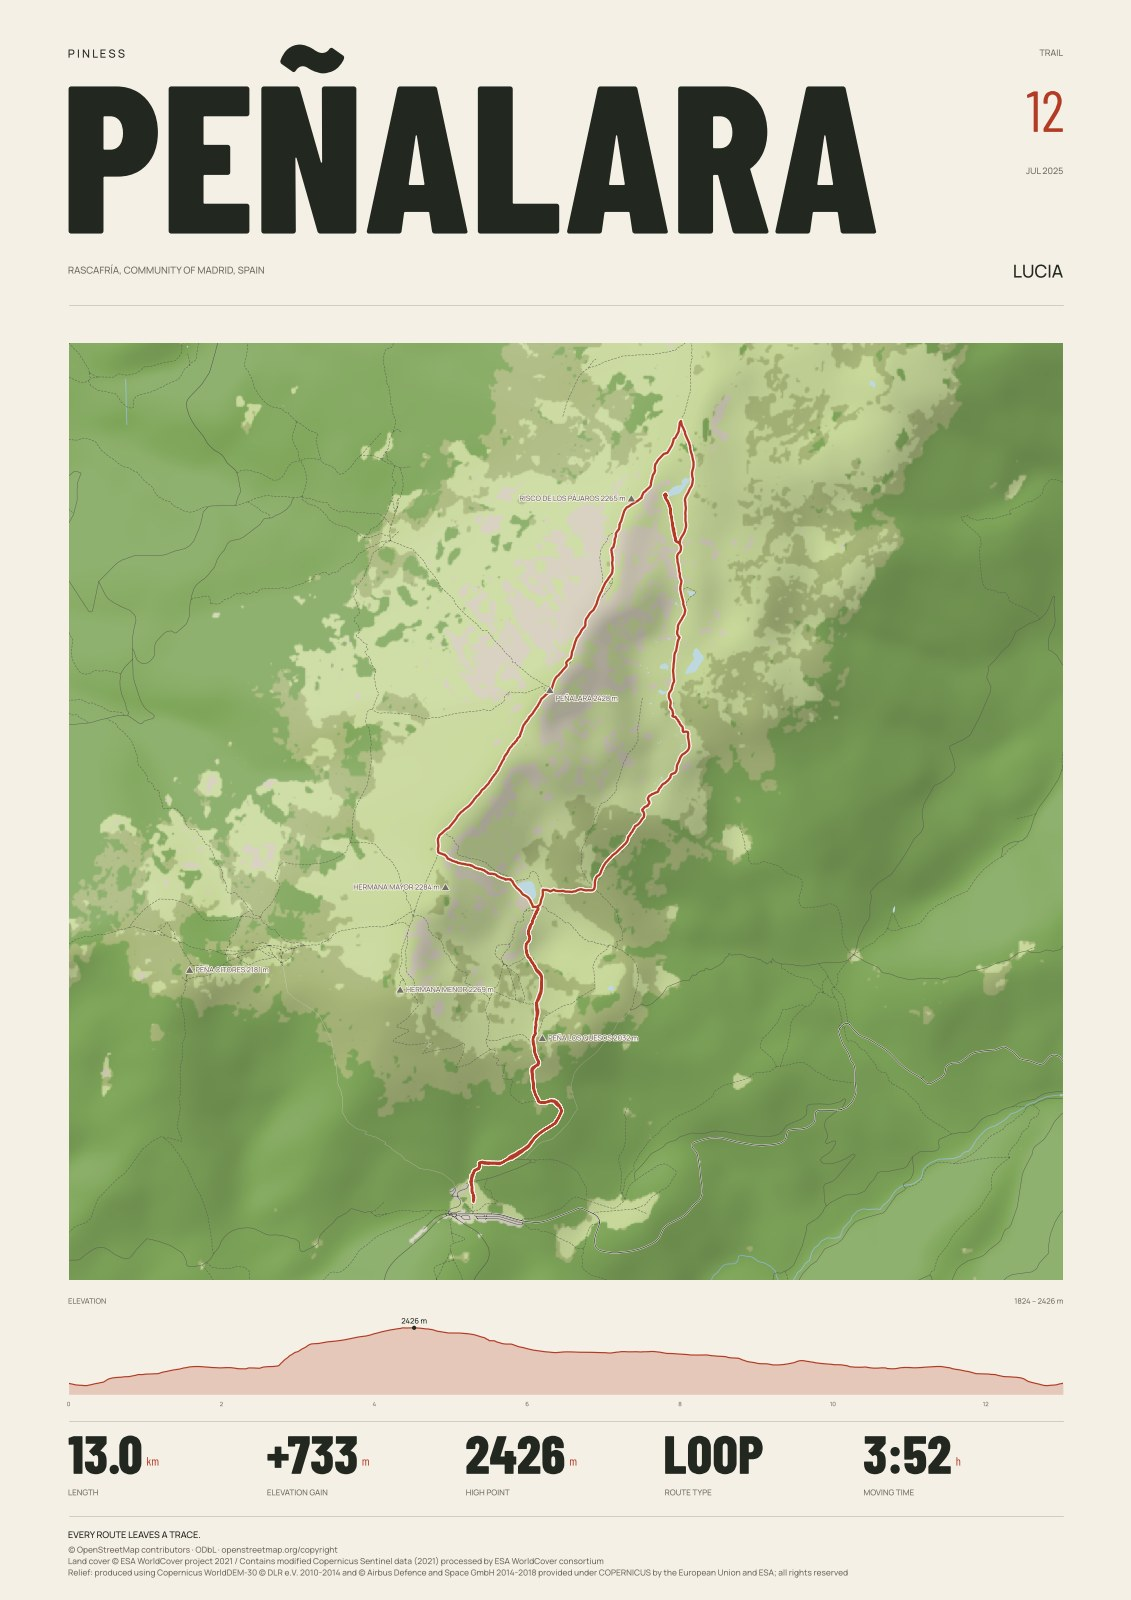
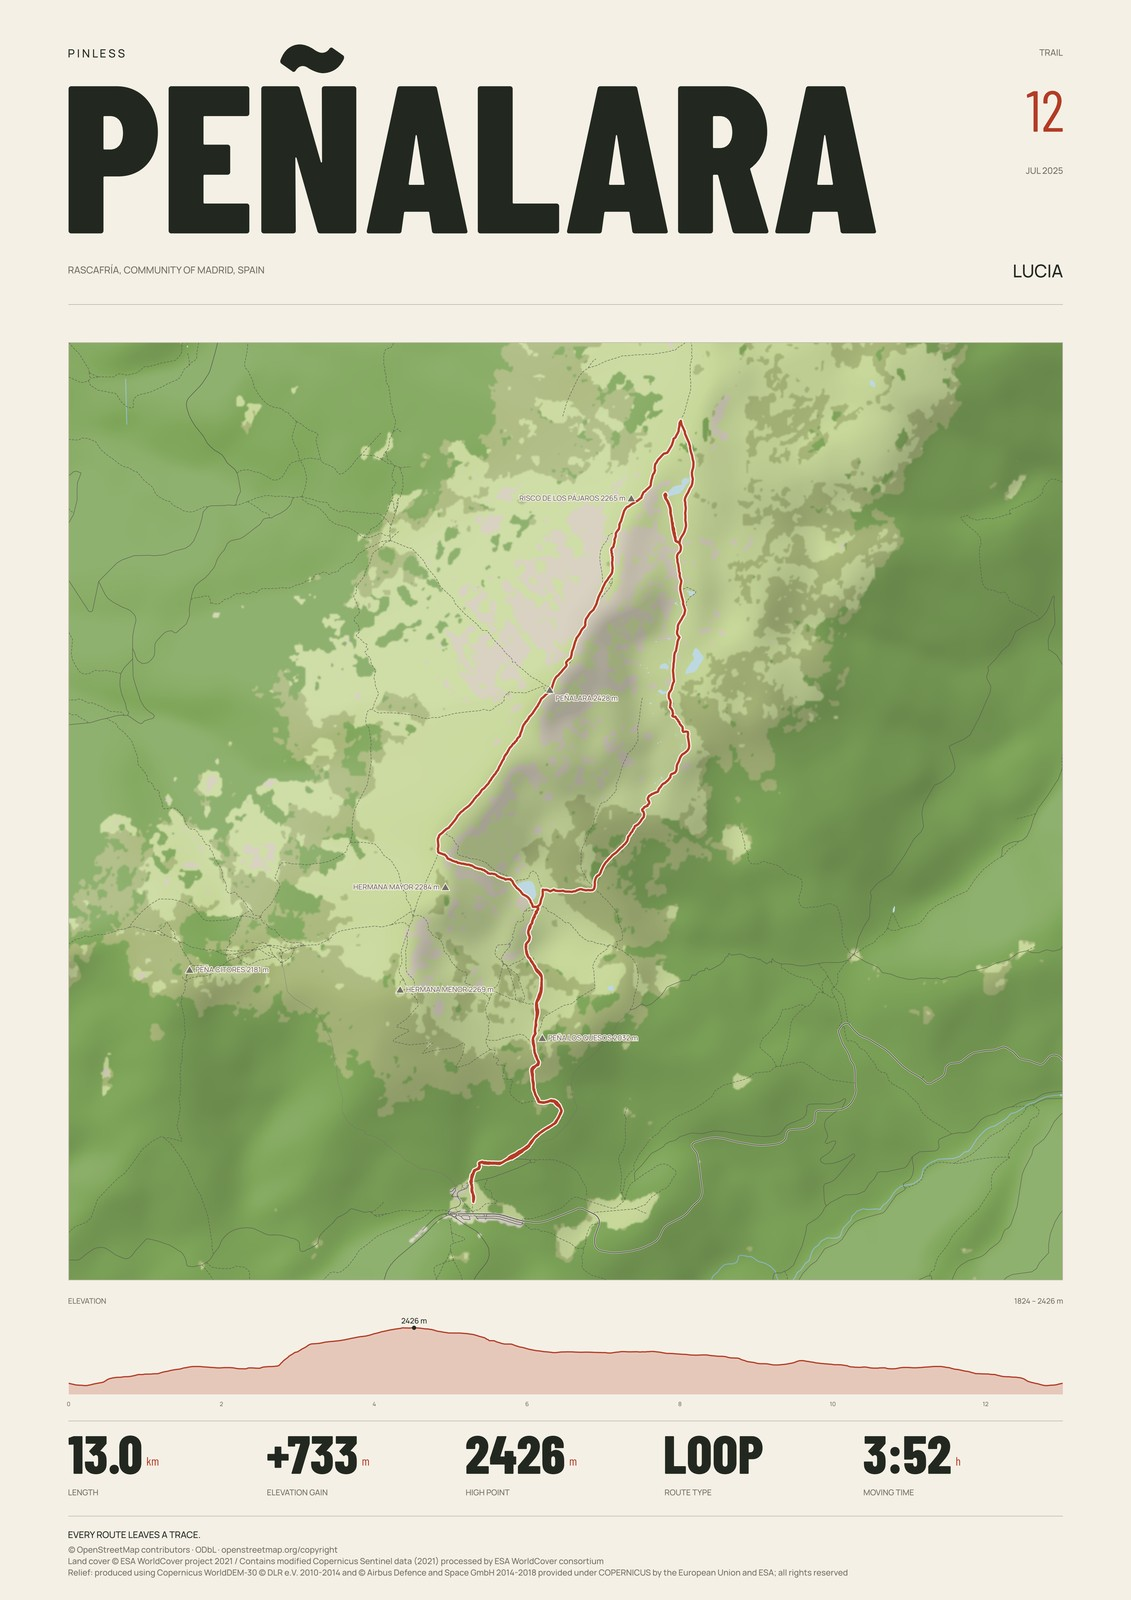
README: the trail prints redrawn with the generalised ground and the orange desert
docs/trail.jpg, docs/trail-desert.jpg and the wall mockup are drawn again from the demo hikes at
300 dpi: rounded class outlines instead of 10 m squares, the Tabernas badlands in the new desert
orange with the relief showing through, and the map's hairline frame. The ground paragraph says
what changed for the reader: a dry land in colours of one lightness, dark styles that keep green
forests and orange deserts with dark blue lakes, the smoothing and the frame, and the route ink
that switches along 15 % or more of the route.

diff --git a/README.md b/README.md
@@ -105,7 +105,7 @@ A run that starts or ends at one of your private places (a long run from home) i
 
 <p align="center">
   <img src="docs/trail.jpg" width="49%" alt="Trail print of a loop over Penalara in the Sierra de Guadarrama: green pine woods and meadows, the granite ridge in stone grey, terrain relief, paths, named summits, the elevation profile and the route numbers">
-  <img src="docs/trail-desert.jpg" width="49%" alt="Trail print of a walk in the Desierto de Tabernas: the badlands in desert orange, the steppe in straw and olive, terrain relief, paths, the elevation profile and the route numbers">
+  <img src="docs/trail-desert.jpg" width="49%" alt="Trail print of a walk in the Desierto de Tabernas: the badlands in desert orange, the steppe in straw, terrain relief, paths, the elevation profile and the route numbers">
 </p>
 <p align="center">
   <img src="docs/wall-trail.jpg" width="80%" alt="The Penalara trail print in an oak frame hung above a sideboard">
@@ -119,7 +119,7 @@ pinless export_12345678.zip --layout trail --activity 2025-07-12 --title "Peñal
 
 One hike, trail run or mountain loop on a topographic map: terrain relief (on by default for this print, `--relief off` turns it off), paths and tracks drawn stronger than on a city poster, roads over the relief in an ink at least as strong, woods and water, and up to six named summits with their heights. Under the map, the elevation profile with its highest point marked, and the route's length, elevation gain, high point, route type (loop, out and back or point to point) and time; when the clock shows pauses longer than two minutes, the moving time. The route is drawn in the style's accent colour, or coloured by `--color-by elevation` or `pace`.
 
-The map's ground takes the colours of the land (`--ground nature`, on by default for this print), from the ESA WorldCover map of 2021 at 10 m, under the relief: woods green, meadows a lighter green, scrub sage, fields wheat, marshes teal, rock and scree a light stone, snow and glaciers blue white, towns a warm grey, lakes and rivers blue. In a dry land the grass and scrub take the straw and olive of a steppe and the bare ground the orange of a desert. WorldCover alone cannot tell a desert from a high mountain (both are grass and bare ground), so where the map lies decides: south of about 37 to 42 degrees of latitude (north of it in the southern hemisphere) with a sixth or more of bare ground, or three quarters bare anywhere, and never with snow or tundra. On dark styles the same colours are pulled towards the paper, so the poster stays dark. Where the style's accent would sink into the ground under the route (the forest style's green on woods), the route takes a deep red, a deep blue or black (white on dark paper), and the log says so. `--ground style` keeps the plain paper of the style.
+The map's ground takes the colours of the land (`--ground nature`, on by default for this print), from the ESA WorldCover map of 2021 at 10 m, under the relief: woods green, meadows a lighter green, scrub sage, fields wheat, marshes teal, rock and scree a light stone, snow and glaciers blue white, towns a warm grey, lakes and rivers blue. In a dry land the grass and scrub take the straw of a steppe, the woods a dry olive and the bare ground the orange of a desert, all of about the same lightness, so the relief shows the shape of the land and the colour what covers it. WorldCover alone cannot tell a desert from a high mountain (both are grass and bare ground), so where the map lies decides: south of about 37 to 42 degrees of latitude (north of it in the southern hemisphere) with a sixth or more of bare ground, or three quarters bare anywhere, and never with snow or tundra. On dark styles the same colours are darker and quieter, so the poster stays dark, but they keep their hue: a forest stays green and a desert orange, and lakes are a dark blue. The classes are smoothed into the rounded outlines of a painted map rather than the squares of the 10 m data, and a fine frame closes the map. Where the style's accent would sink into the ground along 15 % or more of the route (the forest style's green on woods, the sunset orange in a desert), the route takes a deep red, a deep blue or black (white on dark paper), and the log says so. `--ground style` keeps the plain paper of the style.
 
 The export can be a Strava export or a single GPX, TCX or FIT file, as a trail app, a route planner or a watch downloads it. Every activity type counts for this print (`--type Hike` narrows the choice), and `--activity` picks one as for the race print. The headline is the place unless you give one with `--title`: the activity's own name is not printed by default, because names often say where a walk starts.
 
